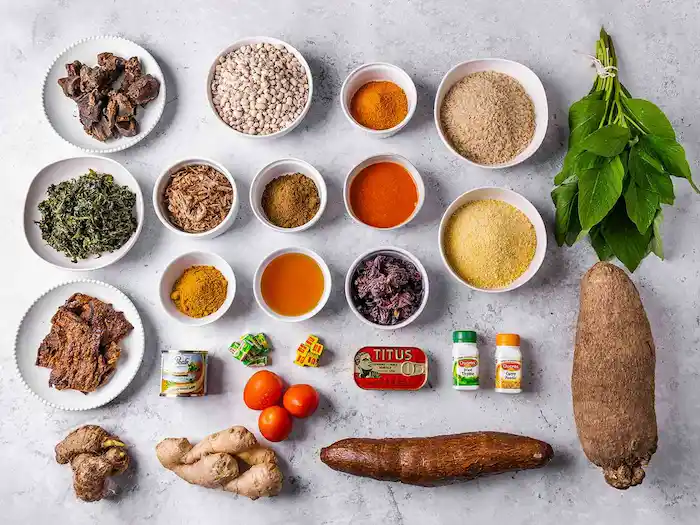
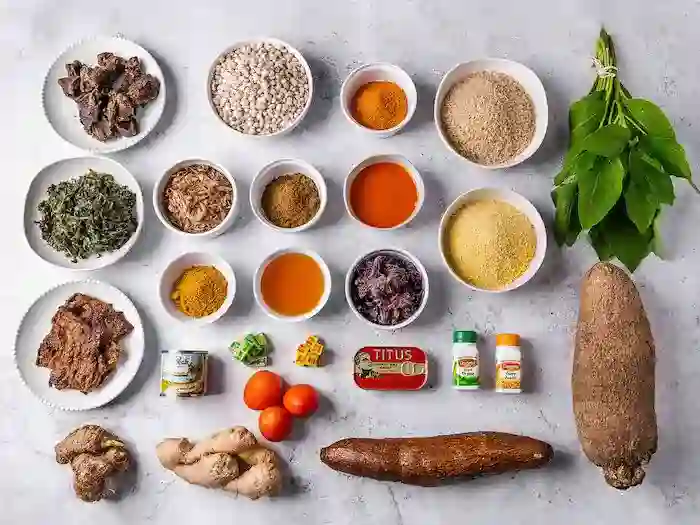
Reduce some of the image sizes for performance

diff --git a/project/scripts/home.js b/project/scripts/home.js
@@ -130,16 +130,15 @@ const allRegions = [
     }
 ];
 
-// ======== This control if we show all cards or just a few =======
 let showAllRecipes = false;
 let showAllRegions = false;
 
-// ======== This will show the recipe cards on the page ======
+// ======== This section will show the recipe cards on the page ======
 function renderFeatured() {
     const container = document.getElementById('featured-grid');
     if (!container) return;
 
-    const isLargeDesktop = window.innerWidth >= 1024;
+    const isLargeDesktop = window.matchMedia('(min-width: 1024px)').matches;
     const displayRecipes = (isLargeDesktop || showAllRecipes) ? allRecipes : allRecipes.slice(0, 4);
 
     container.innerHTML = displayRecipes.map(r => {
@@ -175,12 +174,12 @@ function renderFeatured() {
     }).join('');
 }
 
-// ====== This will show the region cards on the page ========
+// ====== This section will show the region cards on the page ========
 function renderRegions() {
     const container = document.getElementById('regions-grid');
     if (!container) return;
 
-    const isLargeDesktop = window.innerWidth >= 1024;
+    const isLargeDesktop = window.matchMedia('(min-width: 1024px)').matches;
     const displayRegions = (isLargeDesktop || showAllRegions) ? allRegions : allRegions.slice(0, 4);
 
     container.innerHTML = displayRegions.map(region => `
@@ -222,7 +221,7 @@ function toggleRegions() {
 
 // ======== This section will hide the View All buttons on big screen =======
 function updateViewAllButtons() {
-    const isLargeDesktop = window.innerWidth >= 1024;
+    const isLargeDesktop = window.matchMedia('(min-width: 1024px)').matches;
     const recipeBtn = document.querySelector('.featured .view-all-button');
     const regionBtn = document.querySelector('.regions .view-all-button');
 
@@ -282,7 +281,6 @@ function updateFooterDates() {
     if (lastModified) lastModified.innerHTML = `Last Modified: ${document.lastModified}`;
 }
 
-
 // ======== This section will start everything when the page finish loading =======
 document.addEventListener('DOMContentLoaded', () => {
     renderFeatured();
@@ -298,9 +296,13 @@ document.addEventListener('DOMContentLoaded', () => {
     if (recipeBtn) recipeBtn.addEventListener('click', toggleRecipes);
     if (regionBtn) regionBtn.addEventListener('click', toggleRegions);
 
+    let resizeTimeout;
     window.addEventListener('resize', () => {
-        renderFeatured();
-        renderRegions();
-        updateViewAllButtons();
+        if (resizeTimeout) cancelAnimationFrame(resizeTimeout);
+        resizeTimeout = requestAnimationFrame(() => {
+            renderFeatured();
+            renderRegions();
+            updateViewAllButtons();
+        });
     });
 });
